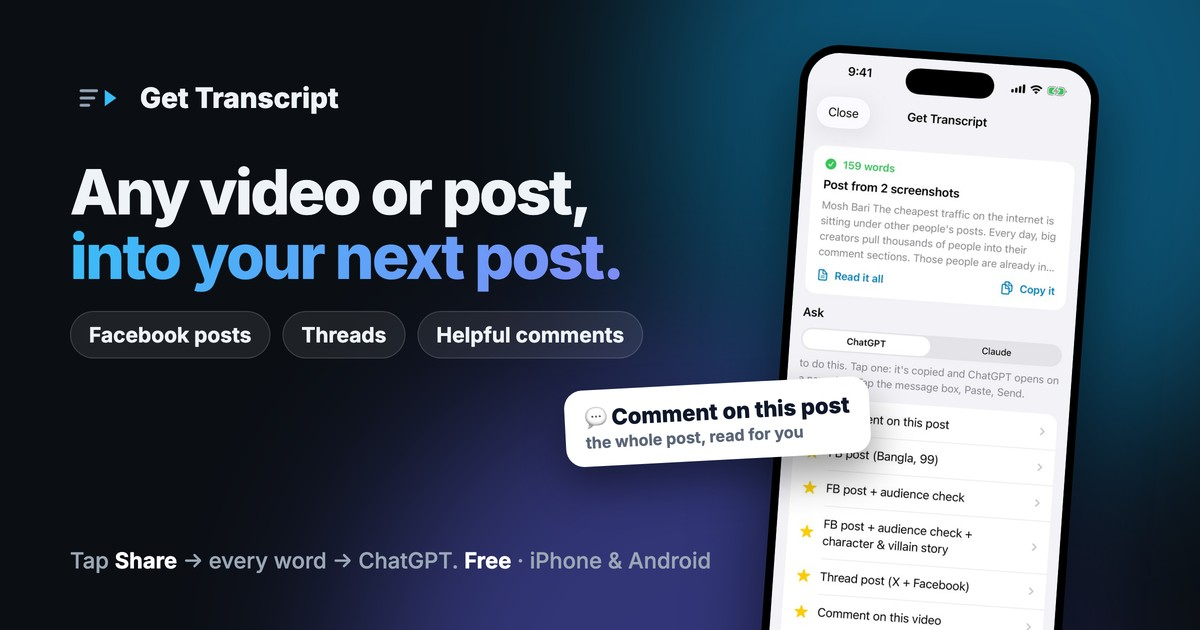
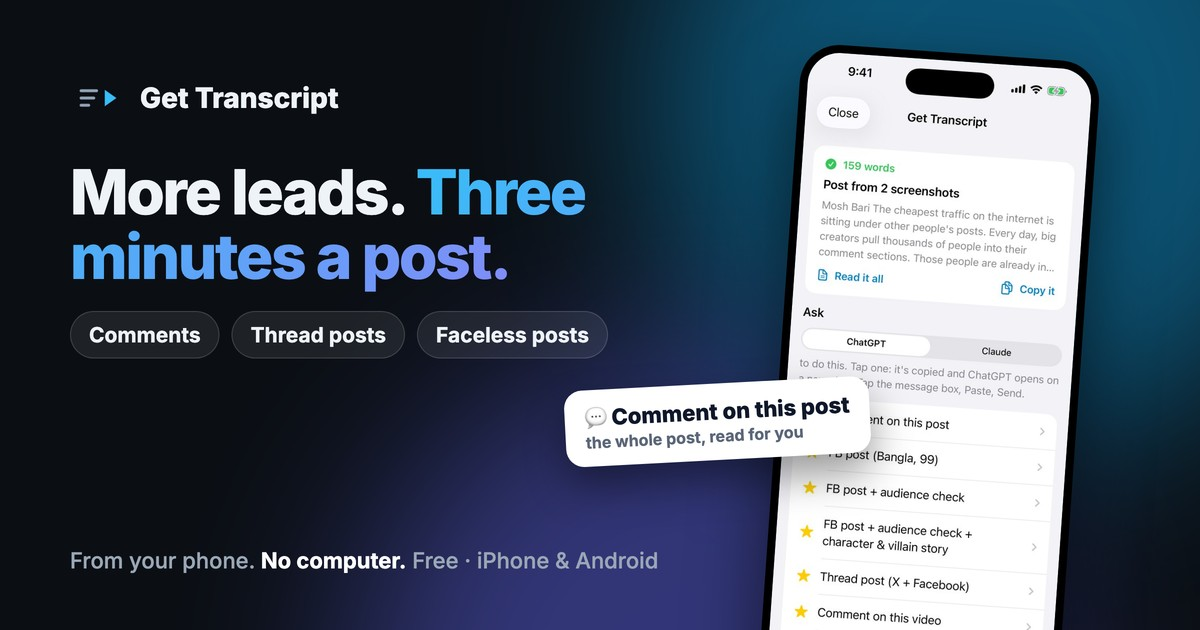
Sales page copy: leads first (outcome / comments, threads, faceless posts / this app + any AI app), ~3 min on your phone with no computer, built for people with a 9-to-5; new Who it's for section, meta + share card updated

diff --git a/public/index.html b/public/index.html
@@ -11,8 +11,8 @@
     if (standalone || /[?&](text|url|title|job|code|pack)=/.test(q)) location.replace('/app' + q + location.hash);
   })();
 </script>
-<title>Get Transcript — Any video or post, into your next post or comment | iPhone &amp; Android</title>
-<meta name="description" content="Tap Share on any video or post. Get Transcript gets every word, then ChatGPT turns it into your Facebook post, thread or a helpful comment. Free for iPhone and Android.">
+<title>Get Transcript — More leads, 3 minutes a post, from your phone | iPhone &amp; Android</title>
+<meta name="description" content="Get leads for your business with helpful comments, thread posts and faceless text posts. Get Transcript and ChatGPT do the writing in about 3 minutes, on your phone. No computer. Free.">
 <meta name="theme-color" content="#0ea5e9">
 <link rel="canonical" href="https://pocket.99dfy.com/">
 <link rel="icon" href="/img/sales/icon.jpg">
@@ -21,19 +21,19 @@
 <meta property="og:site_name" content="Get Transcript by Mosh Bari">
 <meta property="og:locale" content="en_US">
 <meta property="og:url" content="https://pocket.99dfy.com/">
-<meta property="og:title" content="Get Transcript — Any video or post, into your next post or comment">
-<meta property="og:description" content="Tap Share, get every word, and let ChatGPT write the post, the thread or the comment. Free for iPhone and Android.">
+<meta property="og:title" content="Get Transcript — More leads, 3 minutes a post, from your phone">
+<meta property="og:description" content="Comments, thread posts and faceless text posts that bring leads to your business. About 3 minutes each, on your phone, no computer. Free for iPhone and Android.">
 <meta property="og:image" content="https://pocket.99dfy.com/img/sales/og-card.jpg">
 <meta property="og:image:secure_url" content="https://pocket.99dfy.com/img/sales/og-card.jpg">
 <meta property="og:image:type" content="image/jpeg">
 <meta property="og:image:width" content="1200">
 <meta property="og:image:height" content="630">
-<meta property="og:image:alt" content="Get Transcript: tap Share on any video or post, get every word, and ChatGPT writes your post, thread or comment.">
+<meta property="og:image:alt" content="Get Transcript: more leads for your business, 3 minutes a post, from your phone. Comments, threads and faceless posts written with ChatGPT.">
 <meta name="twitter:card" content="summary_large_image">
-<meta name="twitter:title" content="Get Transcript — Any video or post, into your next post or comment">
-<meta name="twitter:description" content="Tap Share, get every word, and let ChatGPT write the post, the thread or the comment. Free for iPhone and Android.">
+<meta name="twitter:title" content="Get Transcript — More leads, 3 minutes a post, from your phone">
+<meta name="twitter:description" content="Comments, thread posts and faceless text posts that bring leads to your business. About 3 minutes each, on your phone, no computer. Free for iPhone and Android.">
 <meta name="twitter:image" content="https://pocket.99dfy.com/img/sales/og-card.jpg">
-<meta name="twitter:image:alt" content="Get Transcript: any video or post into your next post, thread or comment.">
+<meta name="twitter:image:alt" content="Get Transcript: more leads, 3 minutes a post, from your phone.">
 <link rel="preconnect" href="https://fonts.googleapis.com">
 <link rel="preconnect" href="https://fonts.gstatic.com" crossorigin>
 <link href="https://fonts.googleapis.com/css2?family=Inter:wght@400;500;600;700;800&display=swap" rel="stylesheet">
@@ -94,6 +94,16 @@ h1{font-size:clamp(36px,6vw,58px);line-height:1.04;letter-spacing:-.035em;margin
 .lead b{color:var(--ink)}
 .note{font-size:14px;color:var(--muted);margin-top:14px}
 .ver{font-size:13px;color:var(--muted);margin-top:8px}
+
+/* outcome / mechanism / tool */
+.otm{display:grid;grid-template-columns:1fr auto 1fr auto 1fr;gap:12px;align-items:stretch;margin:0 0 4px}
+.otm-card{background:var(--card);border:1px solid var(--line);border-radius:20px;padding:18px 20px;box-shadow:var(--shadow)}
+.otm-card:first-child{border:2px solid var(--a1)}
+.otm-k{display:block;font-size:12px;font-weight:700;letter-spacing:.08em;text-transform:uppercase;color:var(--a1)}
+.otm-card b{display:block;font-size:19px;line-height:1.25;margin:6px 0 6px;letter-spacing:-.01em}
+.otm-card p{margin:0;font-size:15px;color:var(--muted);line-height:1.5}
+.otm-arrow{display:grid;place-items:center;font-size:14px;font-weight:700;font-style:italic;color:var(--a2);white-space:nowrap}
+@media (max-width:900px){ .otm{grid-template-columns:1fr} .otm-arrow{height:14px} }
 
 /* chapter map */
 .map{background:var(--card);border:1px solid var(--line);border-radius:22px;padding:22px;box-shadow:var(--shadow);margin-bottom:10px}
@@ -233,8 +243,8 @@ footer a{text-decoration:none;font-weight:600}
 
   <div class="hero">
     <div>
-      <h1>You found the perfect video. <span class="g">Now turn it into your next post.</span></h1>
-      <p class="lead">A great video, a post everyone is talking about, a voice note full of ideas: all of it can become your next Facebook post, a thread, or a comment that brings people back to your profile. The hard part is getting the words out and into ChatGPT. <b>Get Transcript does that from the Share button</b>, in seconds, on your phone.</p>
+      <h1>More leads for your business. <span class="g">Three minutes a post, from your phone.</span></h1>
+      <p class="lead">Leads come to the people who get seen. A helpful comment under a big creator's post, a thread that keeps people reading, a text post that never needs your face on camera: do those every day and people start finding you. <b>Get Transcript and any AI app turn each one into a three-minute job</b>, on your phone, with no computer and nothing to write from scratch.</p>
       <div class="dl" id="download">
         <a class="btn ios" id="btn-ios" href="https://apps.apple.com/app/get-transcript/id6820350358">
           <svg viewBox="0 0 24 24" fill="currentColor" aria-hidden="true"><path d="M16.37 12.6c-.02-2.3 1.88-3.4 1.96-3.46-1.07-1.56-2.73-1.78-3.32-1.8-1.41-.14-2.76.83-3.47.83-.72 0-1.82-.81-2.99-.79-1.54.02-2.96.9-3.75 2.27-1.6 2.78-.41 6.89 1.15 9.14.76 1.1 1.67 2.34 2.86 2.3 1.15-.05 1.58-.74 2.97-.74 1.38 0 1.78.74 2.99.72 1.24-.02 2.02-1.12 2.77-2.23.87-1.28 1.23-2.52 1.25-2.58-.03-.01-2.4-.92-2.42-3.66zM14.1 5.86c.63-.77 1.06-1.83.94-2.89-.91.04-2.02.61-2.67 1.37-.58.67-1.1 1.76-.96 2.8 1.02.08 2.06-.52 2.69-1.28z"/></svg>
@@ -246,17 +256,31 @@ footer a{text-decoration:none;font-weight:600}
         </a>
       </div>
       <p class="ver" data-appver-line hidden>Newest: iPhone <b data-appver="ios"></b> · Android <b data-appver="android"></b></p>
-      <p class="note">This page is also the tutorial. Read it once and you'll know the whole app. <a href="#ch1">Start the story ↓</a></p>
+      <p class="note">Made for people with a 9-to-5 who don't have the time or the energy to do it by hand. This page is also the tutorial. Read it once and you'll know the whole app. <a href="#ch1">Start the story ↓</a></p>
     </div>
     <div>
       <div class="phone"><img src="/img/sales/post-done.jpg" alt="Get Transcript has read a post: 159 words, with Comment on this post at the top of the list"></div>
-      <p class="cap">Every word of the post, and the comment prompt ready</p>
+      <p class="cap">A post read for you, and the comment one tap away</p>
     </div>
+  </div>
+
+  <section class="otm" aria-label="How it brings you leads">
+    <div class="otm-card"><span class="otm-k">What you get</span><b>Leads for your business</b><p>People who saw you being useful, clicking on your profile and sending you a message.</p></div>
+    <div class="otm-arrow">come from</div>
+    <div class="otm-card"><span class="otm-k">How you get them</span><b>Comments, threads and faceless posts</b><p>Show up every day where your buyers already are, without a camera and without ads.</p></div>
+    <div class="otm-arrow">made easy by</div>
+    <div class="otm-card"><span class="otm-k">What does the work</span><b>This app + any AI app</b><p>Get Transcript gets the words from any video or post; ChatGPT or Claude writes. You check it and post.</p></div>
+  </section>
+
+  <div class="nums">
+    <div class="num"><b>~3 min</b><span>per post or comment</span></div>
+    <div class="num"><b>No computer</b><span>it all happens on your phone</span></div>
+    <div class="num"><b>Free</b><span>app, and free ChatGPT works</span></div>
   </div>
 
   <nav class="map" aria-label="Chapters">
     <h2>How it works, in 6 short chapters</h2>
-    <p>Each one solves the problem the chapter before it leaves you with. Read them in order.</p>
+    <p>Marketing has never been this easy or this cheap. Each chapter fixes the problem the one before it leaves you with. Read them in order.</p>
     <ol>
       <li><a href="#ch1"><span class="n">1</span>Get the words</a></li>
       <li><a href="#ch2"><span class="n">2</span>Hand them to ChatGPT</a></li>
@@ -274,7 +298,7 @@ footer a{text-decoration:none;font-weight:600}
     <div class="ch-text">
       <span class="ch-tag"><span class="n">1</span>Get the words</span>
       <h2>Every good post starts with something you watched.</h2>
-      <p>You're scrolling YouTube and a video stops you. A clear idea, a great story, a point your audience needs to hear. You know it would make a brilliant post, in your own words, for your own people.</p>
+      <p>You're scrolling YouTube on the bus, or in your lunch break, and a video stops you. A clear idea, a great story, a point your buyers need to hear. It would make a brilliant post, in your own words, for your own people.</p>
       <div class="but">But a video is sound, not words. To write about it you'd have to watch it again with a notepad, pause every ten seconds, and type. On a phone, nobody does that. The idea is gone by tomorrow.</div>
       <div class="so">So skip the typing. Tap <b>Share</b> on the video, choose <span class="tag">Get Transcript</span>, and a few seconds later every word is there, with the title and the link. It works for YouTube, TikTok, Instagram, Facebook and X, and for your own voice notes and screen recordings too.</div>
       <div class="how">
@@ -301,7 +325,7 @@ footer a{text-decoration:none;font-weight:600}
     <div class="ch-text">
       <span class="ch-tag"><span class="n">2</span>Hand them to ChatGPT</span>
       <h2>The words are only as good as what you ask for.</h2>
-      <p>Under the words sits a list of ready-made instructions: a Facebook post in Bangla and English, a post with an audience check, a story with a character and a villain, a thread, a comment, a summary, the key points. Pick one, and the instruction plus the whole transcript go to ChatGPT together.</p>
+      <p>Under the words sits a list of ready-made instructions for faceless text posts, the kind you post without ever showing your face: a Facebook post in Bangla and English, a post with an audience check, a story with a character and a villain, a thread, a comment, a summary, the key points. Pick one, and the instruction plus the whole transcript go to ChatGPT together.</p>
       <div class="but">Copying, switching apps, pasting the transcript, then typing a good prompt from memory: that's where most people give up, or end up with a bland "here's a summary" post that sounds like everyone else's.</div>
       <div class="so">One tap does all of it. Tap the instruction you want: everything is copied and ChatGPT opens. Tap the message box, <b>Paste</b>, and send. The post prompts even make ChatGPT score its own work out of 10, and rewrite it until it's happy with it.</div>
       <div class="how">
@@ -383,9 +407,9 @@ footer a{text-decoration:none;font-weight:600}
   <div class="wrap ch-grid">
     <div class="ch-text">
       <span class="ch-tag"><span class="n">5</span>A comment that brings people back</span>
-      <h2>The cheapest traffic is under other people's posts.</h2>
-      <p>Big creators pull thousands of people into their comment sections every day. Those people are already interested, and already reading. Show up there with a comment that adds something real, and some of them click on you. You're borrowing traffic.</p>
-      <div class="but">Borrow it like a good guest, though. A "DM me", a link, a pitch, and the creator bans you. And a genuinely helpful comment takes thought: read the whole post, read what others said, find something worth adding. On a phone, on the go, that's hard to do well, three times a day.</div>
+      <h2>The cheapest leads are under other people's posts.</h2>
+      <p>Big creators pull thousands of people into their comment sections every day. Those people are already interested, and already reading. Show up there with a comment that adds something real, and some of them click on you, read your profile and message you. You're borrowing traffic, and it costs you nothing.</p>
+      <div class="but">Borrow it like a good guest, though. A "DM me", a link, a pitch, and the creator bans you. And a genuinely helpful comment takes thought: read the whole post, read what others said, find something worth adding. After a full day at work, doing that well three times a day is exactly what never happens.</div>
       <div class="so">After a post is read, <span class="tag">Comment on this post</span> sits at the top of the list. Tap it, Paste in ChatGPT, send. It has the whole post and the comments as text, so you don't attach a single screenshot. It writes a humble, supportive comment that adds value, checks its own quality, and puts the post's link on the first line, so you can always find the post again.</div>
       <div class="how">
         <h3>From post to comment</h3>
@@ -412,7 +436,7 @@ footer a{text-decoration:none;font-weight:600}
     <div class="ch-text">
       <span class="ch-tag"><span class="n">6</span>Save it for later</span>
       <h2>The best ideas show up when you're busy.</h2>
-      <p>You're scrolling in a queue, between calls, half-watching. You see a video or a post you'd love to use. Right now you can't stop and write.</p>
+      <p>You're scrolling in a queue, between meetings, half-watching. You see a video or a post you'd love to use. Right now you can't stop and write.</p>
       <div class="but">Screenshots and "I'll remember it" don't work. By tonight it's buried under a hundred other things, and Facebook won't show you that post again.</div>
       <div class="so">Tap <b>Share</b> → <span class="tag">Save for later</span>. One tap, a quick "Saved", and you're back to scrolling. When you have time, open the <span class="tag">Saved</span> tab: everything you kept is waiting. Tap one to get its words and write your post. Mark it done when you've used it.</div>
       <div class="how">
@@ -428,6 +452,22 @@ footer a{text-decoration:none;font-weight:600}
     <div class="phones">
       <div><div class="phone"><img src="/img/sales/saved.jpg" alt="Saved tab" loading="lazy"></div><p class="cap">Your Saved list</p></div>
       <div><div class="phone"><img src="/img/sales/home.jpg" alt="Get Transcript home screen" loading="lazy"></div><p class="cap">Everything in one place</p></div>
+    </div>
+  </div>
+</section>
+
+<section class="ch" id="who">
+  <div class="wrap">
+    <div class="center">
+      <span class="eyebrow g">Who it's for</span>
+      <h2>Built for people with a 9-to-5.</h2>
+      <p>You have a job. You also have a business, or the start of one, and you know it needs you to show up online every day. But by the time you're home, there's no time left and no energy for writing posts and comments by hand, and you're not going to sit at a computer for it either.</p>
+      <div class="so" style="text-align:left">So do it in the gaps. On the bus, in the lunch queue, while the kettle boils. Share, tap, paste, post. About three minutes each, and your marketing keeps working while you keep your job.</div>
+    </div>
+    <div class="nums" style="max-width:760px;margin:26px auto 0">
+      <div class="num"><b>1 comment</b><span>while the kettle boils</span></div>
+      <div class="num"><b>1 thread</b><span>in your lunch break</span></div>
+      <div class="num"><b>1 post</b><span>on the way home</span></div>
     </div>
   </div>
 </section>
@@ -457,7 +497,7 @@ footer a{text-decoration:none;font-weight:600}
     <div class="center" style="margin-bottom:30px">
       <span class="eyebrow g">Get the app</span>
       <h2>Install it in under a minute</h2>
-      <p>Free on both. You'll also want the free ChatGPT app (or Claude) on your phone.</p>
+      <p>Free on both. Add the free ChatGPT app (or Claude), and that's your whole marketing kit.</p>
     </div>
     <div class="cards2">
       <div class="card">
@@ -486,8 +526,8 @@ footer a{text-decoration:none;font-weight:600}
       <details><summary>I used the old Share button shortcut or this website before. What changed?</summary><p>The app replaces the shortcut, and everything you had still works. The website version is still here: tap <a href="/app">Web app</a> at the top of this page.</p></details>
     </div>
     <div class="cta">
-      <h2>Your next post is in a video you've already watched.</h2>
-      <p>Get the words, hand them to ChatGPT, post. Free for iPhone and Android.</p>
+      <h2>Your next lead is under someone else's post.</h2>
+      <p>Three minutes, your phone, and any AI app. Free for iPhone and Android.</p>
       <div class="dl">
         <a class="btn ios" href="https://apps.apple.com/app/get-transcript/id6820350358">
           <svg viewBox="0 0 24 24" fill="currentColor" aria-hidden="true"><path d="M16.37 12.6c-.02-2.3 1.88-3.4 1.96-3.46-1.07-1.56-2.73-1.78-3.32-1.8-1.41-.14-2.76.83-3.47.83-.72 0-1.82-.81-2.99-.79-1.54.02-2.96.9-3.75 2.27-1.6 2.78-.41 6.89 1.15 9.14.76 1.1 1.67 2.34 2.86 2.3 1.15-.05 1.58-.74 2.97-.74 1.38 0 1.78.74 2.99.72 1.24-.02 2.02-1.12 2.77-2.23.87-1.28 1.23-2.52 1.25-2.58-.03-.01-2.4-.92-2.42-3.66zM14.1 5.86c.63-.77 1.06-1.83.94-2.89-.91.04-2.02.61-2.67 1.37-.58.67-1.1 1.76-.96 2.8 1.02.08 2.06-.52 2.69-1.28z"/></svg>

diff --git a/og-card.html b/og-card.html
@@ -21,10 +21,10 @@ h1 span{background:linear-gradient(120deg,#38bdf8,#818cf8);-webkit-background-cl
 <div class="glow g1"></div><div class="glow g2"></div>
 <div class="left">
  <div class="brand"><img src="public/img/sales/icon.jpg">Get Transcript</div>
- <h1>Any video or post, <span>into your next post.</span></h1>
- <div class="chips"><span class="chip">Facebook posts</span><span class="chip">Threads</span><span class="chip">Helpful comments</span></div>
+ <h1>More leads. <span>Three minutes a post.</span></h1>
+ <div class="chips"><span class="chip">Comments</span><span class="chip">Thread posts</span><span class="chip">Faceless posts</span></div>
 </div>
-<div class="foot">Tap <b>Share</b> → every word → ChatGPT. <b>Free</b> · iPhone &amp; Android</div>
+<div class="foot">From your phone. <b>No computer.</b> Free · iPhone &amp; Android</div>
 <div class="phone"><img src="public/img/sales/post-done.jpg"></div>
 <div class="tag">💬 Comment on this post<small>the whole post, read for you</small></div>
 </body></html>
